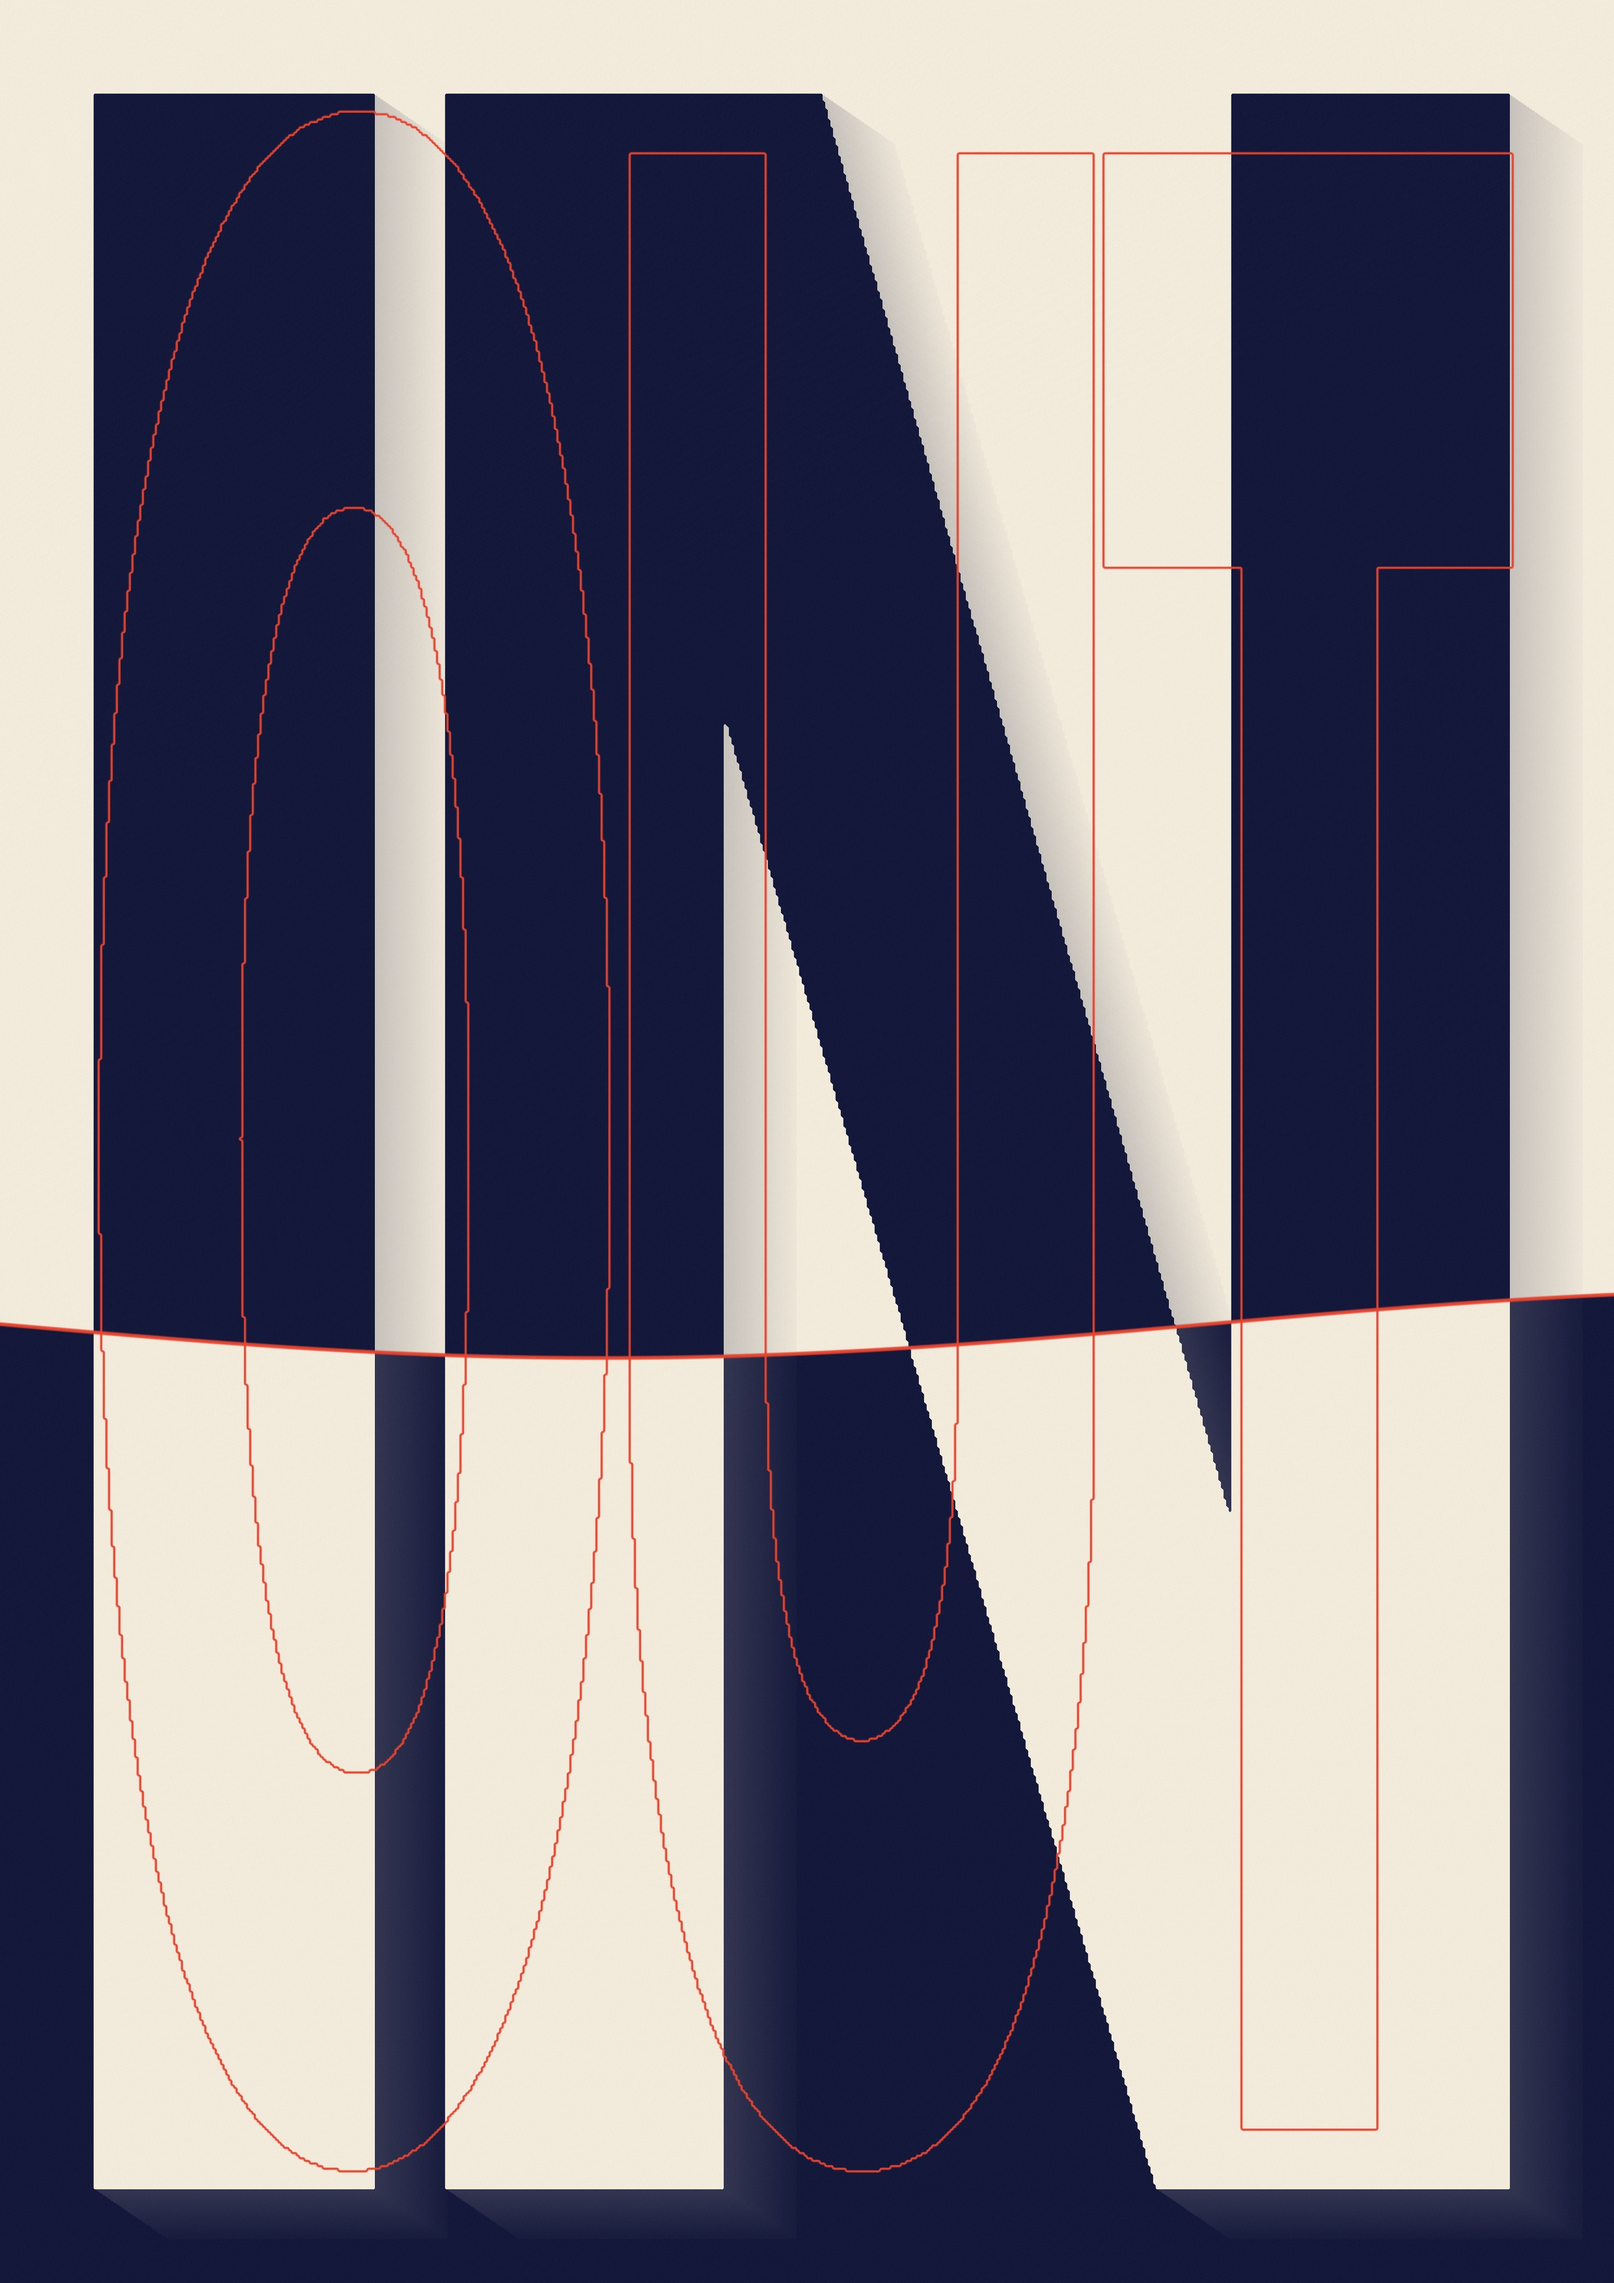
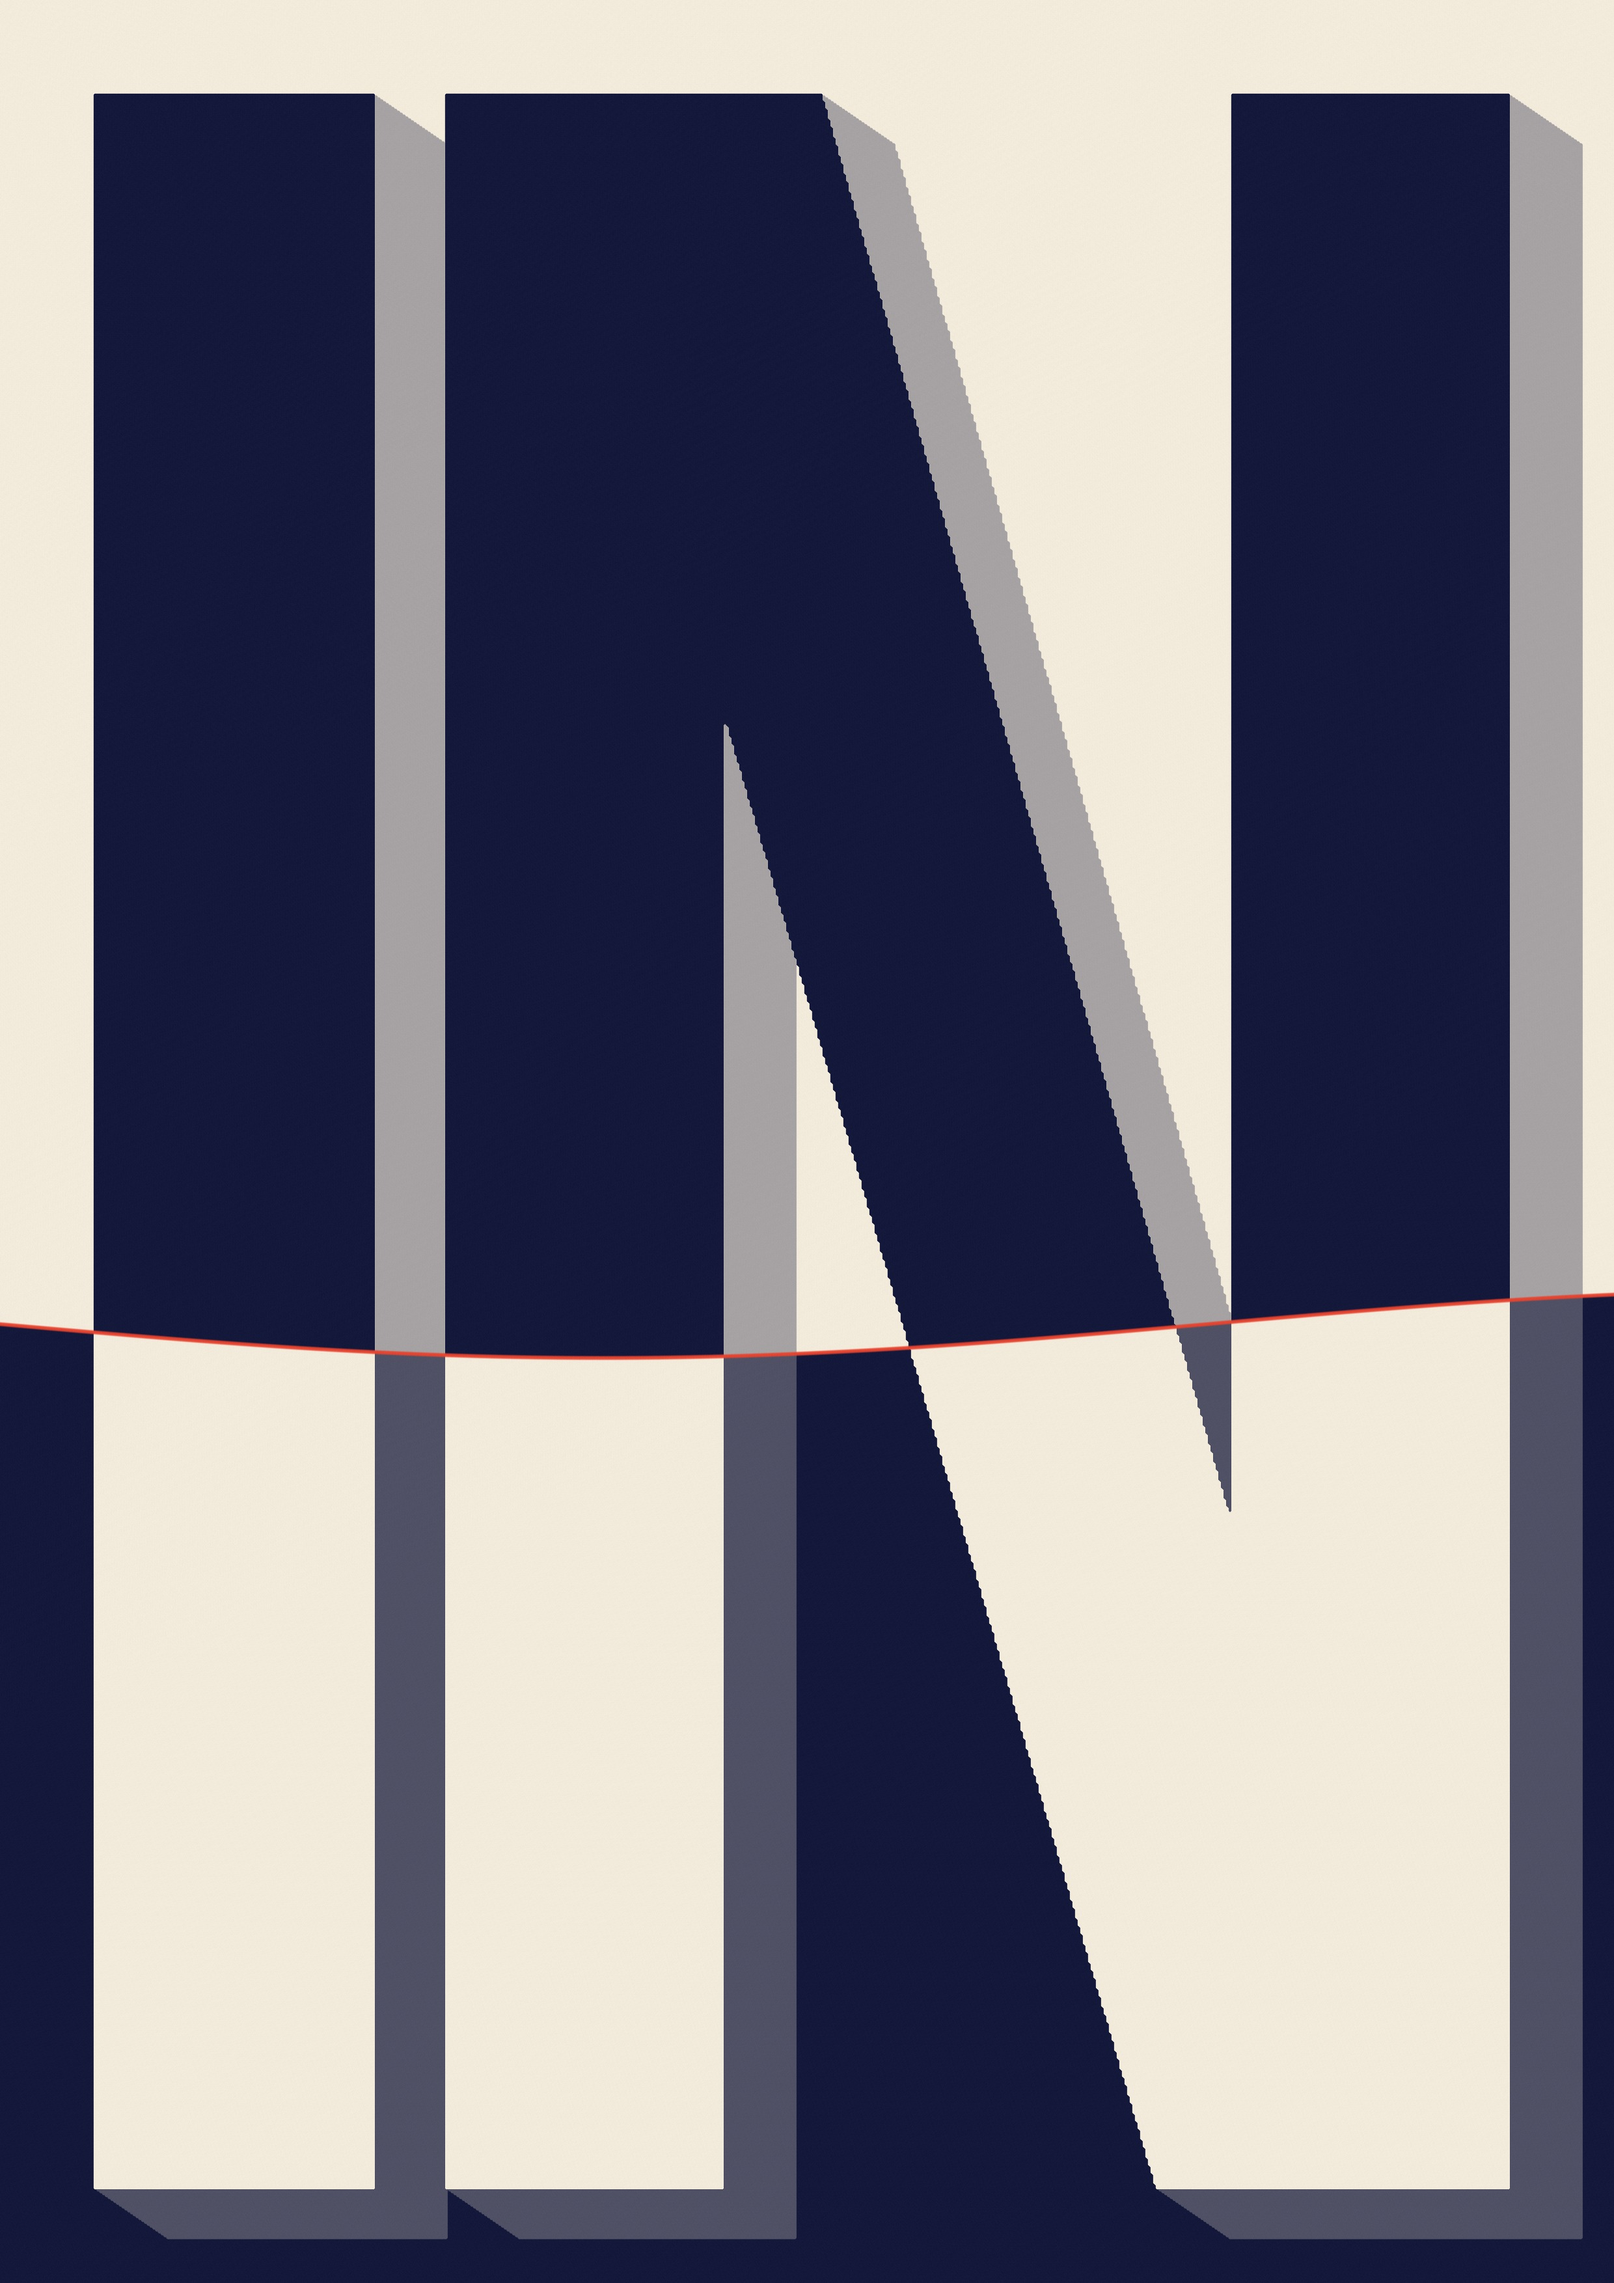
Design director pass: subtract on ten posters (11, 14, 16, 18, 20, 21, 22, 23, 26, 27)
Claude-Session: https://claude.ai/code/session_01ULV5BgVKBvSKSog5SRVsM4

diff --git a/days/20/poster.html b/days/20/poster.html
@@ -14,14 +14,14 @@
 <style>
   html, body { margin:0; width:1240px; height:1754px; overflow:hidden; background:#EFEAE0; font-family:'Inter Tight'; }
   #wall { perspective:1400px; }
-  #wall { position:absolute; left:72px; right:72px; top:72px; bottom:300px; display:flex; flex-wrap:wrap; align-content:flex-start; gap:22px 14px; }
+  #wall { position:absolute; left:72px; right:72px; top:72px; bottom:410px; display:flex; flex-wrap:wrap; align-content:flex-start; gap:22px 14px; }
   .b { display:inline-flex; align-items:center; justify-content:center; border-radius:999px; font-weight:600; letter-spacing:-.02em; white-space:nowrap; box-sizing:border-box;
        animation:press 10s cubic-bezier(.2,.7,.2,1) infinite; }
   .go { background:#2638C9; color:#F6F3EC; box-shadow:0 10px 0 #17227C, 0 18px 30px rgba(23,34,124,.25); }
   .no { background:#EFEAE0; color:#D4532A; box-shadow:inset 0 0 0 4px #D4532A, 0 10px 0 #E7D9C9; }
   .n { font-weight:700; opacity:.45; margin-left:.4em; font-variant-numeric:tabular-nums; }
   @keyframes press { 0%, 100% { transform:scale(1); } }
-  .k { position:absolute; left:72px; right:72px; bottom:72px; font:700 66px/1 'Inter Tight'; letter-spacing:-.035em; color:#2638C9; }
+  .k { position:absolute; left:72px; right:72px; bottom:72px; font:700 98px/.96 'Inter Tight'; letter-spacing:-.04em; color:#2638C9; }
   .k span { color:#D4532A; }
   #cur { position:absolute; left:0; top:0; width:96px; height:96px; pointer-events:none; z-index:9; filter:drop-shadow(0 6px 8px rgba(0,0,0,.25)); }
   .ripple { position:absolute; width:20px; height:20px; margin:-10px 0 0 -10px; border-radius:50%; border:4px solid #D4532A; pointer-events:none; z-index:8; opacity:0; }

diff --git a/days/26/poster.html b/days/26/poster.html
@@ -38,7 +38,7 @@ const wall = new THREE.Mesh(new THREE.PlaneGeometry(60, 40), mat('#E2DDD3', .95)
 S.add(new THREE.HemisphereLight('#F5EFE4', '#3A3530', .12));
 // three gels, red, green and blue, from three sides: together they make white light; where a figure blocks one,
 // its shadow takes the colour of the other two, so the shadows come out cyan, magenta and yellow
-const gels = ['#FF2A2A', '#26FF4A', '#2A5BFF'].map((c, i) => { const l = new THREE.SpotLight(c, 380, 70, .5, .4, 1.5);
+const gels = ['#FF2A2A', '#26FF4A', '#2A5BFF'].map((c, i) => { const l = new THREE.SpotLight(c, 620, 80, .85, .6, 1.5);
   l.castShadow = true; l.shadow.mapSize.set(1024, 1024); l.shadow.radius = 4; l.shadow.bias = -.0004; l.target.position.set(0, 2.5, -1); S.add(l, l.target); return l; });
 const key = gels[0];
 
@@ -80,7 +80,8 @@ function pose(sec) {
   B.position.x = 2.45 + .4 * Math.sin(ph); B.rotation.y = -.5 + .5 * Math.sin(ph);
   B.parts.arm.rotation.z = .5 * Math.sin(ph * 2 + .6); B.parts.upper.rotation.y = ph; B.parts.head.rotation.z = .12 * Math.sin(ph * 3);
   // the gels orbit slowly round the stage, so the coloured shadows swing and cross
-  gels.forEach((l, i) => { const a = ph + i * TAU / 3 + .4; l.position.set(Math.cos(a) * 13, 9 + 2 * Math.sin(ph * 2 + i), 6 + Math.sin(a) * 5); });
+  // all three wash the whole stage, so together they make white; only the shadows, where one is blocked, take colour
+  gels.forEach((l, i) => { const a = (i - 1) * .8 + .3 * Math.sin(ph + i * 2.1); l.position.set(Math.sin(a) * 13, 7.5 + 1.5 * Math.sin(ph * 2 + i), 15 * Math.cos(a)); });
   R.render(S, cam);
 }
 pose(0); document.body.dataset.ready = '1';

diff --git a/days/11/poster.html b/days/11/poster.html
@@ -73,7 +73,7 @@ void main() {
   // depth: a long cast shadow, as if the letters stood off the page, from a light that circles once a loop
   vec2 L = vec2(cos(t * TAU + .6), sin(t * TAU + .6)) * 2.6;
   float sh = 0.;
-  for (int i = 1; i <= 26; i++) { float dd = shape(p - L * float(i)); sh = max(sh, smoothstep(.8, -.8, dd) * (1. - float(i) / 30.)); }
+  for (int i = 1; i <= 26; i++) { float dd = shape(p - L * float(i)); sh = max(sh, smoothstep(.8, -.8, dd)); }   // a solid block of shadow, crisp at its end, like extruded type
   sh *= 1. - figure;
   // the horizon: a slow wave, and everything below it is the other way round
   float y = hz + sin(uv.x * 4.2 + t * TAU) * wob;
@@ -82,13 +82,10 @@ void main() {
   vec3 paper = vec3(.949, .918, .859), navy = vec3(.078, .094, .227), verm = vec3(.91, .26, .18);
   vec3 col = mix(paper, navy, ink);
   // the shadow: navy over paper above the line, paper over navy below
-  vec3 shc = mix(mix(paper, navy, .22), mix(navy, paper, .16), below);
+  vec3 shc = mix(mix(paper, navy, .38), mix(navy, paper, .30), below);
   col = mix(col, shc, sh * .9 * (1. - abs(figure - below) * 0.) * (1. - figure));
   // where IN and OUT overlap, a third shape: neither word, both words
   float both = smoothstep(aa, -aa, da) * smoothstep(aa, -aa, db);
-  // the word it is about to become, as a vermilion hairline
-  float other = k < .5 ? db : da;
-  col = mix(col, verm, smoothstep(2.6, 1., abs(other)) * .95);
   // the horizon itself, a vermilion rule
   col = mix(col, verm, smoothstep(2.2, .6, abs(p.y - y)) * .95);
   col += (hash(p * dpr + t) - .5) * .02;

diff --git a/days/23/poster.html b/days/23/poster.html
@@ -106,9 +106,9 @@ const READY = (async () => {
     x.fillStyle = '#ECEBE6'; x.font = '700 150px "Space Grotesk"'; x.letterSpacing = '-4px'; x.textBaseline = 'alphabetic';
     x.fillText('Spectrum', M, H - M - 70);
     // a ruler of wavelengths up the right edge, ticked every 50 nm, the colour of each mark its own wavelength
-    x.save(); x.font = '500 30px "Space Grotesk"'; x.textAlign = 'right';
-    for (let l = 400; l <= 700; l += 50) { const yy = M + 120 + (l - 400) / 300 * (H * .5); const c = rgb(xyz(l)).map(v => Math.max(0, Math.min(1, v * 1.6)));
-      x.fillStyle = `rgb(${c.map(v => Math.round(Math.pow(v, 1 / 2.2) * 255)).join(',')})`; x.fillRect(W - M - 40, yy - 2, 40, 4); x.fillText(l + ' nm', W - M - 54, yy + 10); }
+    x.save(); x.font = '500 38px "Space Grotesk"'; x.textAlign = 'right';
+    for (let l = 400; l <= 700; l += 50) { const yy = M + 120 + (l - 400) / 300 * (H * .5); const c0 = rgb(xyz(l)).map(v => Math.max(0, v)), mx = Math.max(...c0, .001), c = c0.map(v => .12 + .88 * v / mx);   // every mark as bright as its hue allows
+      x.fillStyle = `rgb(${c.map(v => Math.round(Math.pow(v, 1 / 2.2) * 255)).join(',')})`; x.fillRect(W - M - 40, yy - 2, 40, 4); x.fillText(l + ' nm', W - M - 54, yy + 13); }
     x.restore();
     x.font = '500 40px "Space Grotesk"'; x.letterSpacing = '0px'; x.fillStyle = '#8E8C86';
     x.fillText('400 to 700 nanometres, one beam.', M + 4, H - M);

diff --git a/days/14/poster.html b/days/14/poster.html
@@ -32,7 +32,7 @@ const pts = P.map(([x, y, k]) => new THREE.Vector3(x - W / 2, H / 2 - y, (k || 0
 const curve = new THREE.CatmullRomCurve3(pts, false, 'centripetal', .5);
 const SEG = pts.length * 2, geo = new THREE.TubeGeometry(curve, SEG, 2.6, 5, false);
 // colour by depth: an analogous run, deep indigo where the wire comes closest, rose where it lies back
-const cols = [], A = new THREE.Color('#23286B'), B = new THREE.Color('#7A2E8E'), C = new THREE.Color('#D9506A');
+const cols = [], A = new THREE.Color('#171A55'), B = new THREE.Color('#7A2E8E'), C = new THREE.Color('#E3C9BE');
 const n = geo.attributes.position.count, ring = 6;
 const pos = geo.attributes.position;
 for (let i = 0; i < n; i++) { const u = Math.min(1, Math.max(0, 1 - pos.getZ(i) / 150)); const c = u < .5 ? A.clone().lerp(B, u * 2) : B.clone().lerp(C, (u - .5) * 2); cols.push(c.r, c.g, c.b); }

diff --git a/days/21/poster.html b/days/21/poster.html
@@ -56,7 +56,7 @@ const READY = (async () => {
     x.strokeStyle = '#181A20'; x.lineWidth = 3; x.strokeRect(PX - 14, PY - 14, PWd + 28, PHt + 28); x.lineWidth = 1.2; x.strokeRect(PX - 22, PY - 22, PWd + 44, PHt + 44);
     x.fillStyle = '#181A20'; x.textBaseline = 'alphabetic';
     x.font = '600 132px "Cormorant Garamond"'; x.letterSpacing = '10px'; x.fillText('EMERGENCE', M - 6, M + 104);
-    x.fillStyle = '#8A3A3C'; x.font = 'italic 500 40px "Cormorant Garamond"'; x.letterSpacing = '0px'; x.textAlign = 'right'; x.fillText('Lenia, after one rule', W - M, H - M - 70); x.textAlign = 'left'; x.fillStyle = '#181A20';
+
     x.font = 'italic 500 64px "Cormorant Garamond"'; x.letterSpacing = '0px';
     x.fillText('Four creatures from one rule.', M, H - M - 10);
     x.textAlign = 'right'; x.fillText('Pl. 21', W - M, H - M - 10); x.textAlign = 'left';

diff --git a/days/22/poster.html b/days/22/poster.html
@@ -48,7 +48,7 @@ void main() {
   vec3 warpC = vec3(.12, .20, .44) * (.85 + .3 * hash(i + 3.));      // indigo
   // the weft is dyed in long warm bands, saffron to rust to madder and back, so the cloth carries a slow stripe
   float bandT = .5 + .5 * sin(j * .045);
-  vec3 weftC = mix(vec3(.95, .90, .80), mix(vec3(.96, .78, .44), vec3(.90, .56, .40), bandT), .55) * (.92 + .12 * hash(j + 7.));
+  vec3 weftC = mix(vec3(.95, .90, .80), mix(vec3(.96, .78, .44), vec3(.90, .56, .40), bandT), .26) * (.92 + .12 * hash(j + 7.));
   // satin: in every five, the warp is up only once (weft faced), or down only once (warp faced)
   vec2 cc = vec2(CL + (i + .5) * P, CT + (j + .5) * P);   // the loom decides once per crossing, so the letters step thread by thread
   float inside = texture2D(mask, cc / vec2(1240., 1754.)).r;

diff --git a/days/18/poster.html b/days/18/poster.html
@@ -86,9 +86,7 @@ const READY = (async () => {
     const stamp = t < 1.4 ? 1 : t < 2.4 ? 1 - (t - 1.4) : Math.max(0, Math.min(1, (t - 9.3) / .35));
     if (stamp > 0) { const sz = 150 * (1 + (1 - stamp) * .25); x.save(); x.globalAlpha = stamp; x.globalCompositeOperation = 'multiply';
       x.translate(W - 72 - 75, H - 72 - 75 - 40); x.rotate(-.03); x.drawImage(seal, -sz / 2, -sz / 2, sz, sz); x.restore(); }
-    // the title, in the margin's quiet: one word, as the seal's echo, set vertically in the way of a hanging scroll
-    x.save(); x.fillStyle = 'rgba(40,36,34,.82)'; x.font = '800 92px "Shippori Mincho B1"'; x.textAlign = 'center';
-    x.fillText('間', 72 + 50, 72 + 96); x.restore();
+
   }
   await draw(0); document.body.dataset.ready = '1'; return draw;
 })();

diff --git a/days/16/poster.html b/days/16/poster.html
@@ -75,7 +75,7 @@ const READY = (async () => {
     x.fillStyle = INK; x.font = '700 236px Oswald'; x.letterSpacing = '-2px';
     const ride = (1 - go(kT)) * -900;
     x.fillText('UPWARD', 40 + ride, 0); x.restore();
-    x.save(); x.translate(W - M - 20, M + 40); x.rotate(A); x.fillStyle = RED; x.font = '700 64px Oswald'; x.letterSpacing = '2px';
+    x.save(); x.translate(W - M - 10, H - M - 110); x.rotate(A); x.fillStyle = RED; x.font = '700 64px Oswald'; x.letterSpacing = '2px';
     x.textAlign = 'right'; x.globalAlpha = go(kT); x.fillText('16 / 30', 0, 60); x.restore();
   }
   draw(0); document.body.dataset.ready = '1'; return draw;

diff --git a/days/27/poster.html b/days/27/poster.html
@@ -14,7 +14,7 @@
 <style>
   html, body { margin:0; width:1240px; height:1754px; overflow:hidden; background:#E3D6BE; }
   canvas { position:absolute; left:0; top:0; width:1240px; height:1754px; display:block; }
-  .s { position:absolute; left:72px; right:72px; bottom:64px; font:600 46px/1.05 Archivo; color:#2B3324; letter-spacing:-.02em; }
+  .s { position:absolute; left:72px; right:72px; top:64px; font:600 46px/1.05 Archivo; color:#2B3324; letter-spacing:-.02em; }
 </style>
 </head>
 <body>
